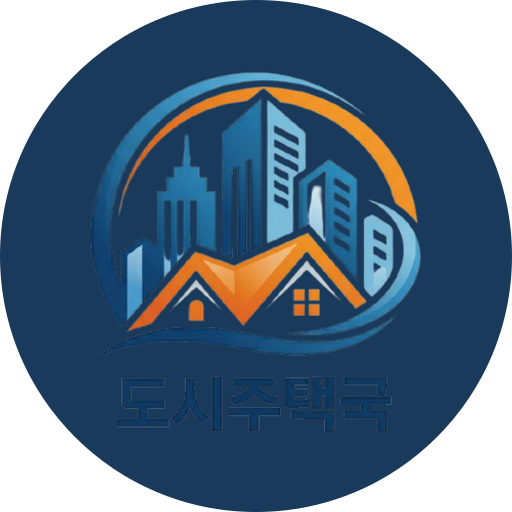
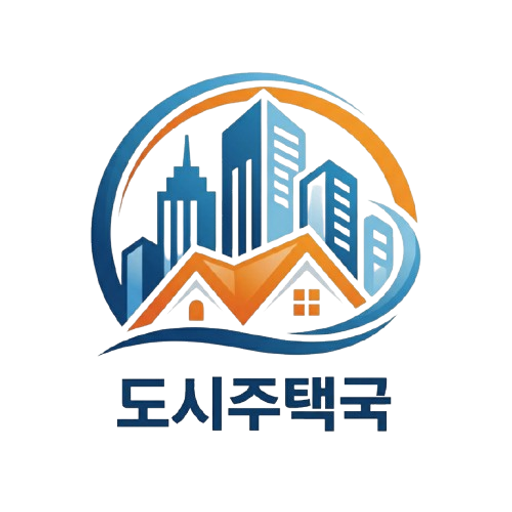
revert: 아이콘 흰 배경 원형 클리핑 버전으로 복구 (7b19a47)

diff --git a/index.html b/index.html
@@ -5,16 +5,16 @@
 <meta name="viewport" content="width=device-width, initial-scale=1.0, viewport-fit=cover">
 <title>서구 도시주택국 대시보드</title>
 <!-- PWA -->
-<link rel="manifest" href="manifest.json?v=17">
+<link rel="manifest" href="manifest.json?v=15">
 <meta name="theme-color" content="#1a3a5c">
 <meta name="application-name" content="도시주택국">
 <meta name="mobile-web-app-capable" content="yes">
 <meta name="apple-mobile-web-app-capable" content="yes">
 <meta name="apple-mobile-web-app-status-bar-style" content="black-translucent">
 <meta name="apple-mobile-web-app-title" content="도시주택국">
-<link rel="icon" type="image/png" sizes="512x512" href="public/icon-512b.png?v=17">
-<link rel="apple-touch-icon" href="public/icon-512b.png?v=17">
-<link rel="shortcut icon" href="public/icon-512b.png?v=17">
+<link rel="icon" type="image/png" sizes="512x512" href="public/icon-512b.png?v=15">
+<link rel="apple-touch-icon" href="public/icon-512b.png?v=15">
+<link rel="shortcut icon" href="public/icon-512b.png?v=15">
 <link href="https://fonts.googleapis.com/css2?family=Noto+Sans+KR:wght@300;400;500;600;700&display=swap" rel="stylesheet">
 <script src="https://www.gstatic.com/firebasejs/9.23.0/firebase-app-compat.js"></script>
 <script src="https://www.gstatic.com/firebasejs/9.23.0/firebase-database-compat.js"></script>

diff --git a/sw.js b/sw.js
@@ -1,5 +1,5 @@
 // 서구 도시주택국 대시보드 - Service Worker
-const CACHE_NAME = 'bureau-dashboard-v34';
+const CACHE_NAME = 'bureau-dashboard-v35';
 const ASSETS = [
   './',
   './index.html',
